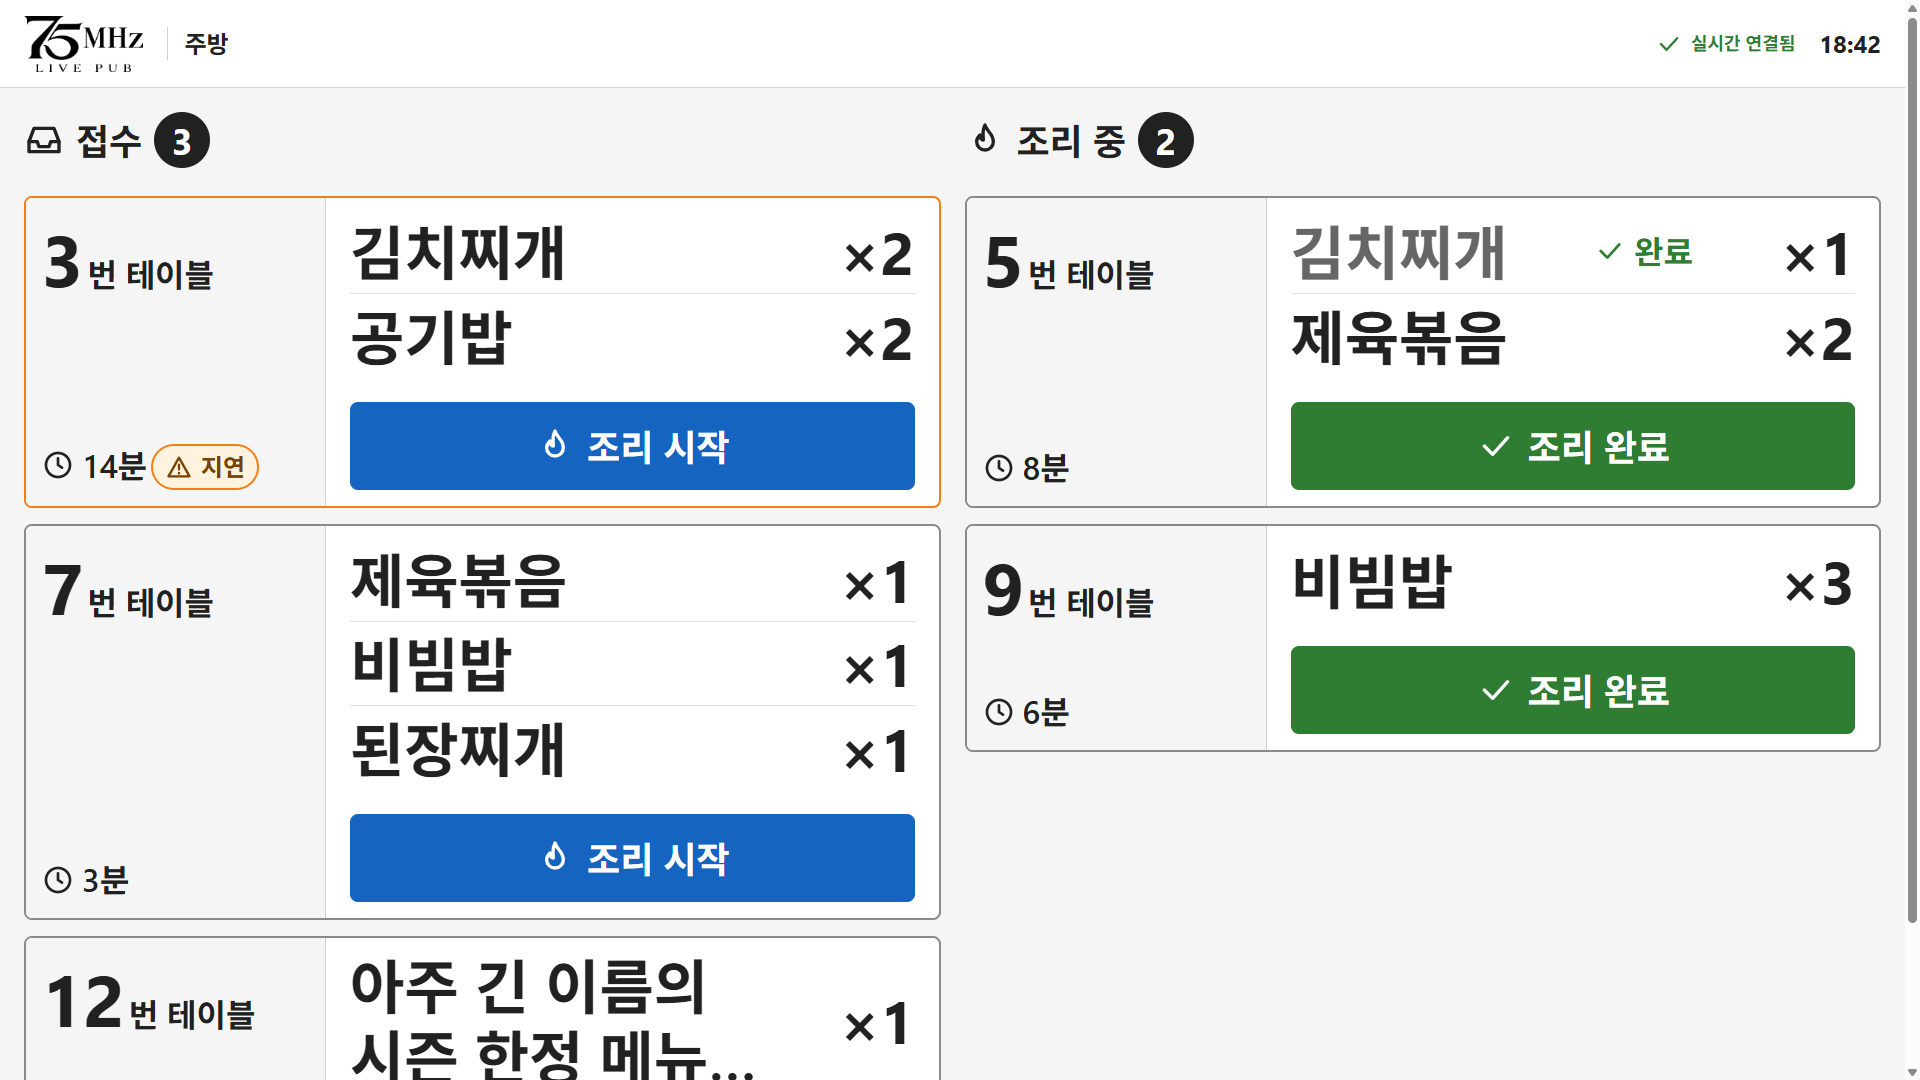
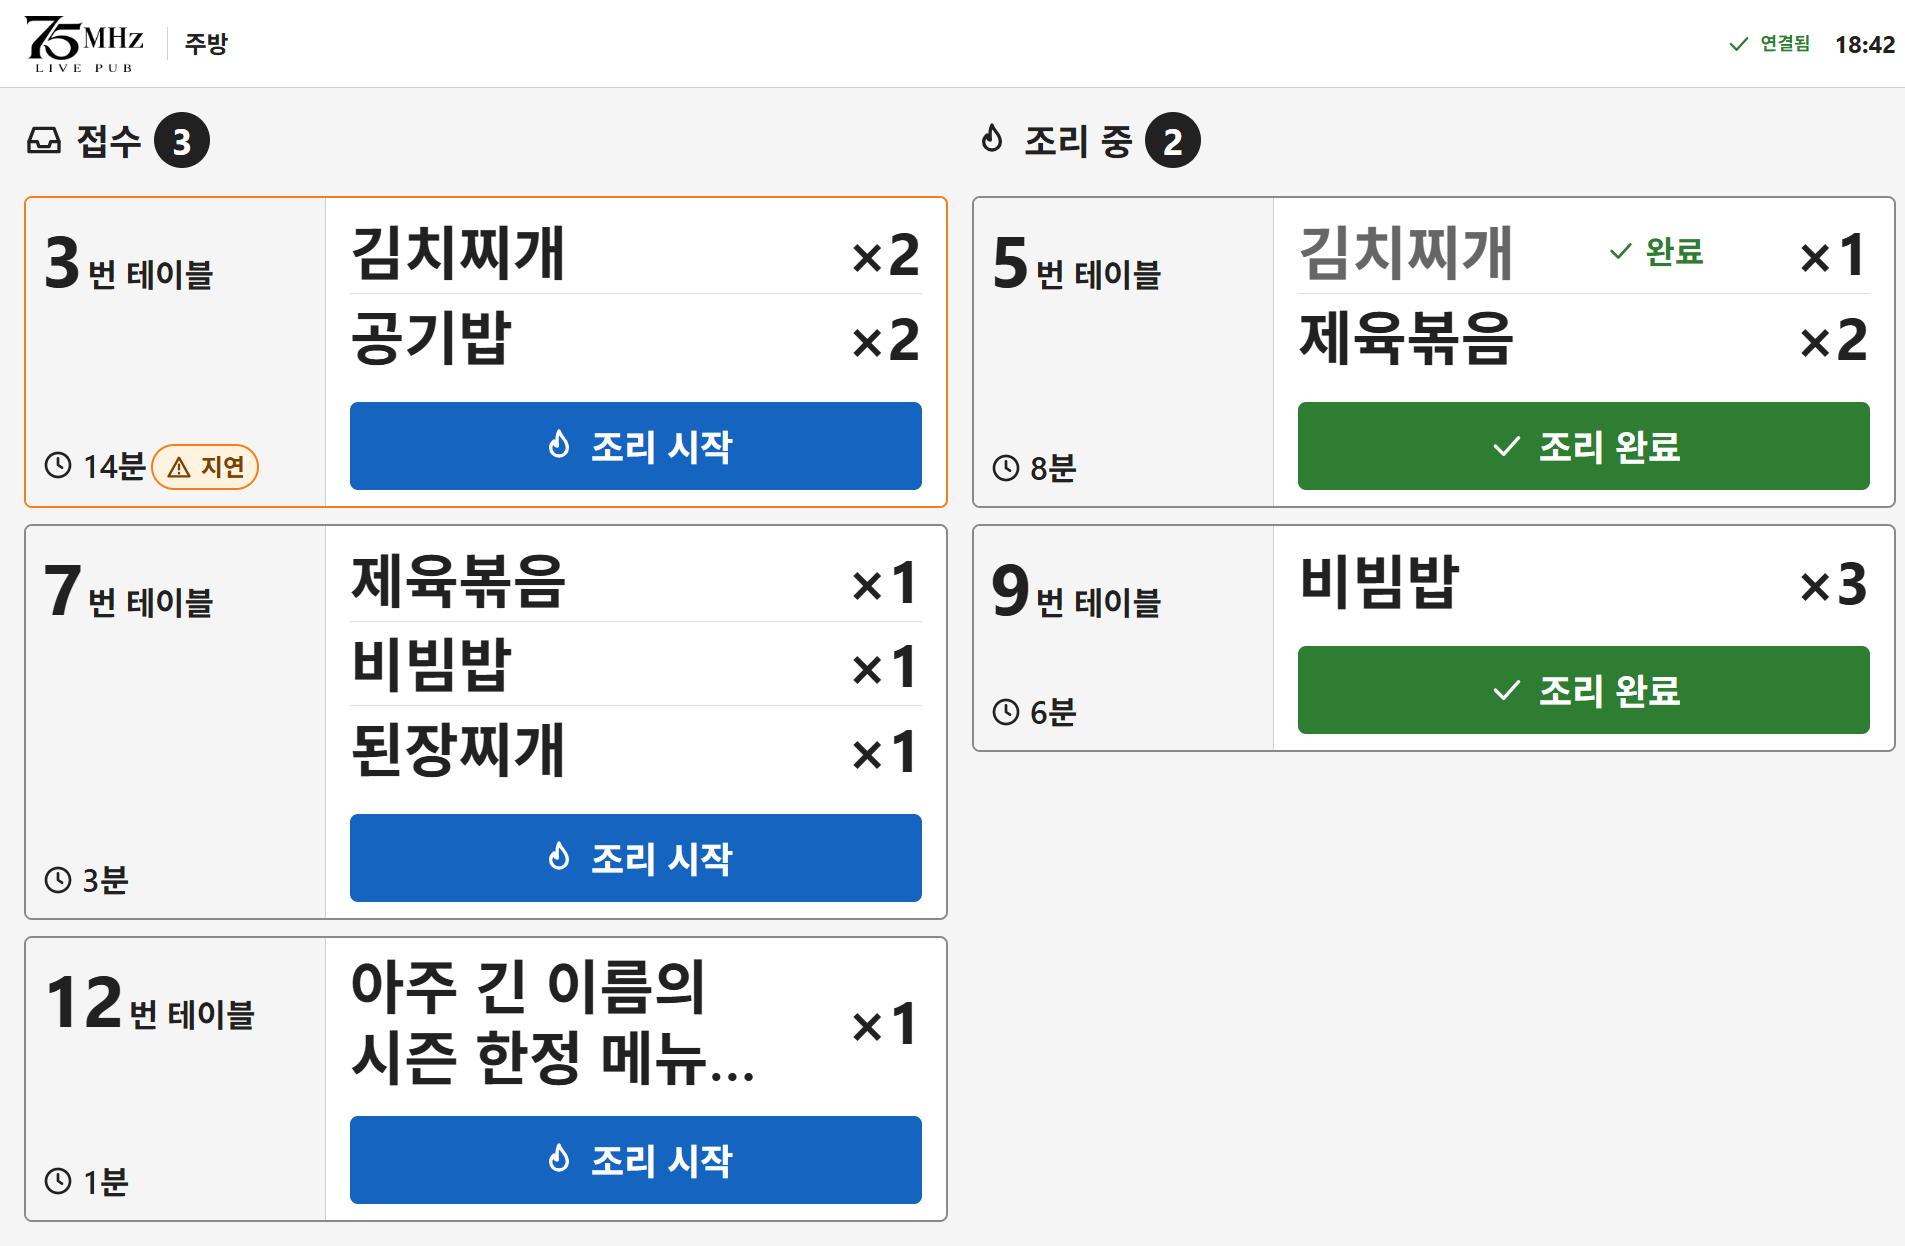
docs(design): U-04 폴링·실패 해제 규칙·계약 확인 결과 반영, 옛 서술 정리

Changed region(s): [[0.0, 0.0, 1.0, 1.0], [0.031, 0.5194, 0.1239, 0.5806], [0.9911, 0.9778, 1.0, 1.0]]

diff --git a/docs/design/kitchen/prototype/kitchen-states.html b/docs/design/kitchen/prototype/kitchen-states.html
@@ -98,7 +98,7 @@ function lane(title, icon, list, kind, ctxFor) {
 function render() {
   const board = document.getElementById('board'), banner = document.getElementById('banner'), conn = document.getElementById('conn');
   banner.innerHTML = '';
-  conn.className = 'k-conn ok'; conn.setAttribute('role','status'); conn.innerHTML = ic('check')+'실시간 연결됨';
+  conn.className = 'k-conn ok'; conn.setAttribute('role','status'); conn.innerHTML = ic('check')+'연결됨';
   let html = '';
   const none = () => ({});
   if (state==='loading') {

diff --git a/docs/design/kitchen/prototype/kitchen.html b/docs/design/kitchen/prototype/kitchen.html
@@ -11,7 +11,7 @@
   <img class="app-logo" src="../../brand/logo-compact-black.png" alt="75MHz LIVE PUB">
   <h1 class="k-title">주방</h1>
   <span class="k-spacer"></span>
-  <span class="k-conn ok" role="status"><i data-icon="check"></i>실시간 연결됨</span>
+  <span class="k-conn ok" role="status"><i data-icon="check"></i>연결됨</span>
   <span class="k-clock">18:42</span>
 </header>
 

diff --git a/docs/design/kitchen/spec.md b/docs/design/kitchen/spec.md
@@ -4,10 +4,10 @@
 프로토타입: `prototype/kitchen.html`(메인), `prototype/kitchen-states.html`(상태 보기 바 또는 `?state=default|loading|empty|error|offline|busy|partial`). 1920×1080 기준. 기준 기기: 주방 벽걸이·거치 모니터, 2m 거리, 장갑 낀 손.
 
 ## 구성
-- 상단 바: 로고, 화면 이름, 실시간 연결 상태(아이콘 + 글자), 현재 시각.
+- 상단 바: 로고, 화면 이름, 연결 상태(아이콘 + 글자, 예: "연결됨"), 현재 시각.
 - 두 레인: 접수(`received`) / 조리 중(`cooking`). 레인 제목에 건수.
 - 주문 카드: 왼쪽 테이블 번호(72px)·경과 시간(32px), 오른쪽 메뉴명·수량(59px = 44pt), 하단 버튼 88px.
-- (U-03 시안의 주문 단위 버튼은 아래 U-04 결정으로 항목 단위 버튼으로 바뀐다.) 항목이 끝났으면 "완료"를 아이콘 + 글자로 표시하고 이름을 `--color-text-secondary`로 낮춘다.
+- 버튼은 항목 단위다(U-04 결정 1). 항목이 끝났으면 "완료"를 아이콘 + 글자로 표시하고 이름을 `--color-text-secondary`로 낮춘다.
 - 지연 표시(제안): 접수 후 10분 경과 시 카드 테두리 `--color-warning` + "지연" 배지(아이콘 + 글자). 기준 분은 사장님 확인 후 확정.
 - 긴 메뉴명은 2줄까지 보이고 말줄임. 텍스트는 일반 텍스트로만 표시(D-24).
 
@@ -18,10 +18,8 @@
 - Order: `id`, `table_no`, `status`, `created_at`, `items[]`(`menu_name`, `qty`, `item_status`, `table_no`). 화면에는 `table_id` 대신 `table_no`를 보여 준다.
 - 항목 단위 조리 처리: `PATCH /kitchen/items/{item_id}/status`(updateKitchenItemStatus).
 - 경과 시간은 `created_at`에서 클라이언트가 계산한다.
-- 갱신: `GET /stream/orders` (SSE).
-
-## 계약 요청
-없음. 민준 님 대조 결과 `table_no`와 항목 상태 변경 엔드포인트는 이미 계약에 있다. 이번 시안은 주문 단위 버튼만 두고, 항목 단위 처리 UI는 U-04 상세 명세에서 정한다.
+- 목록: `GET /kitchen/queue`(pending·cooking 항목만 돌려준다). 갱신은 5초 폴링이다(D-30). SSE는 2차.
+- 항목 처리 응답 본문은 계약에 없으므로 쓰지 않고, 처리 후 다시 조회해서 확인한다(B-16에서 계약 보완 예정).
 
 ## 대비
 본문 `--color-text-primary` on 흰색 16.1:1, "지연" `--color-warning-text` on `--color-warning-light` 7.41:1, 흰 글자 on 버튼 5.13~5.75:1. 직접 계산한 값이며 도구 검증 전.
@@ -53,7 +51,7 @@
 - **로딩:** "주문을 불러오는 중"(스피너 + 글자) + 회색 스켈레톤 카드. 상단 연결 표시는 "연결 중". 버튼 없음.
 - **빈 상태:** 수저 아이콘 + "지금 들어온 주문이 없습니다" + "새 주문이 들어오면 이 화면에 바로 나타납니다." 레인 하나만 비었을 때는 레인 안에 "접수된 주문이 없습니다" / "조리 중인 주문이 없습니다".
 - **오류(불러오기 실패):** 경고 아이콘 + "주문을 불러오지 못했습니다" + "네트워크를 확인하고 다시 시도해 주세요." + "다시 시도" 버튼(88px). 상단 표시 "연결 안 됨"(빨강, 아이콘 + 글자).
-- **연결 끊김(SSE):** 마지막 데이터는 그대로 두고 경고 배너 "연결이 끊겼습니다. 다시 연결하는 중입니다." + "아래 주문은 18:41 기준이며 새 주문이 보이지 않을 수 있습니다. 버튼은 연결될 때까지 쓸 수 없습니다." + "지금 다시 연결". 모든 버튼 비활성(`disabled`). 잘못된 시각 표시를 막기 위해 시각은 마지막 수신 시각을 쓴다.
+- **연결 끊김(폴링 실패):** 마지막 데이터는 그대로 두고 경고 배너 "연결이 끊겼습니다. 다시 연결하는 중입니다." + "아래 주문은 18:41 기준이며 새 주문이 보이지 않을 수 있습니다. 버튼은 연결될 때까지 쓸 수 없습니다." + "지금 다시 연결". 모든 버튼 비활성(`disabled`). 잘못된 시각 표시를 막기 위해 시각은 마지막 수신 시각을 쓴다.
 - **처리 중(비활성):** 누른 항목 버튼은 스피너 + "처리 중"으로 비활성, 같은 카드 일괄 버튼도 비활성. 다른 카드는 계속 누를 수 있다. 응답이 오면 즉시 복구.
 - **일부 항목 실패:** 위 결정 2.
 - **긴 메뉴명:** 2줄까지 표시 후 말줄임(`word-break: keep-all`). 일반 텍스트로만 렌더링(D-24).
@@ -67,10 +65,20 @@
 - 연결 상태, 경고, 실패 배너는 `role="status"` 또는 `role="alert"`.
 - 상태는 항상 색 + 아이콘 + 글자.
 
-## 계약 요청 (민준 님께)
-1. `PATCH /kitchen/items/{item_id}/status` 응답 본문이 없다(200만 선언). 성공 후 해당 주문을 다시 조회하지 않고 SSE로 갱신해도 되는지 확인이 필요하다.
-2. 같은 항목에 같은 상태를 다시 보냈을 때(재시도) 오류 없이 200을 주는지 확인이 필요하다(일괄 재시도 안전성).
-3. 401 외 403(주방 역할이 아닌 토큰)과 404(항목 없음) 선언이 없다.
+## 계약 확인 결과 (민준 님 답변, 백엔드 코드 확인)
+1. 일괄 처리는 항목 PATCH를 동시에 호출해도 된다(`Promise.allSettled`). 항목마다 별도 트랜잭션이고 주문 상태는 `received→cooking` 한 방향으로만 자동 변경돼 결과가 같다.
+2. 같은 상태로 다시 보내도 200이다(멱등). 재시도는 안전하다.
+3. 실제 응답은 `{item_id, status}`이고 404·409도 실제로 온다. 계약에는 이 셋이 없다. **B-16에서 계약 보완 예정**이며 그 전까지 프론트는 응답 본문을 쓰지 않고 다시 조회한다.
+4. `GET /kitchen/queue`는 pending·cooking 항목만 돌려준다.
+
+## 완료 항목 표시와 queue 한계
+`/kitchen/queue`는 `done` 항목을 돌려주지 않는다. 그래서 "완료" 표시(체크 + 흐린 이름)는 방금 완료를 누른 항목만 다음 폴링 전까지 화면에 남기는 임시 표시이고, 다음 폴링에서 행이 사라진다. 한 주문의 일부만 끝난 상태를 계속 보여 줘야 하면 queue가 같은 주문의 done 항목도 주는지 계약 확인이 필요하다(B-16에서 함께 확인 요청).
+
+## 실패 표시 해제 규칙
+실패한 항목 행의 "다시 시도" 표시는 다음 폴링(5초) 응답에서 아래 중 하나가 되면 지운다. 응답이 유실됐지만 서버는 처리한 경우를 포함한다.
+1. 그 항목의 상태가 목표 상태로 바뀌어 있을 때
+2. 목표 상태가 `done`이고 그 항목이 목록에서 사라졌을 때(queue는 done을 주지 않는다)
+사용자가 "다시 시도"를 눌러 성공해도 같은 방식으로 해제한다. 상단 부분 실패 배너는 해당 카드의 실패 행이 모두 없어지면 닫는다.
 
 ## 열린 항목 (정주현 님)
 - 주방 모니터 크기(인치)와 해상도. 현재 값은 1920×1080 가정이며 크기가 작으면 59px 본문 기준을 다시 잡는다.
@@ -78,7 +86,7 @@
 - 밝은 테마 통일(결정 3) 확인.
 
 ## 완료 조건 (구현자)
-1. 항목 단위 버튼과 일괄 버튼이 위 규칙대로 동작하고, 일괄 처리의 부분 실패에서 성공 항목은 유지된다.
+1. 항목 단위 버튼과 일괄 버튼이 위 규칙대로 동작하고, 일괄 처리의 부분 실패에서 성공 항목은 유지된다. 실패 표시는 위 해제 규칙으로 지운다.
 2. 연결 끊김에서 모든 버튼이 `disabled`이고 배너가 보인다.
 3. 메뉴명 59px 이상, 버튼 88px 이상, 토큰 변수만 사용(하드코딩 색 없음).
 4. 지연 기준 분은 상수 하나로 둔다.
